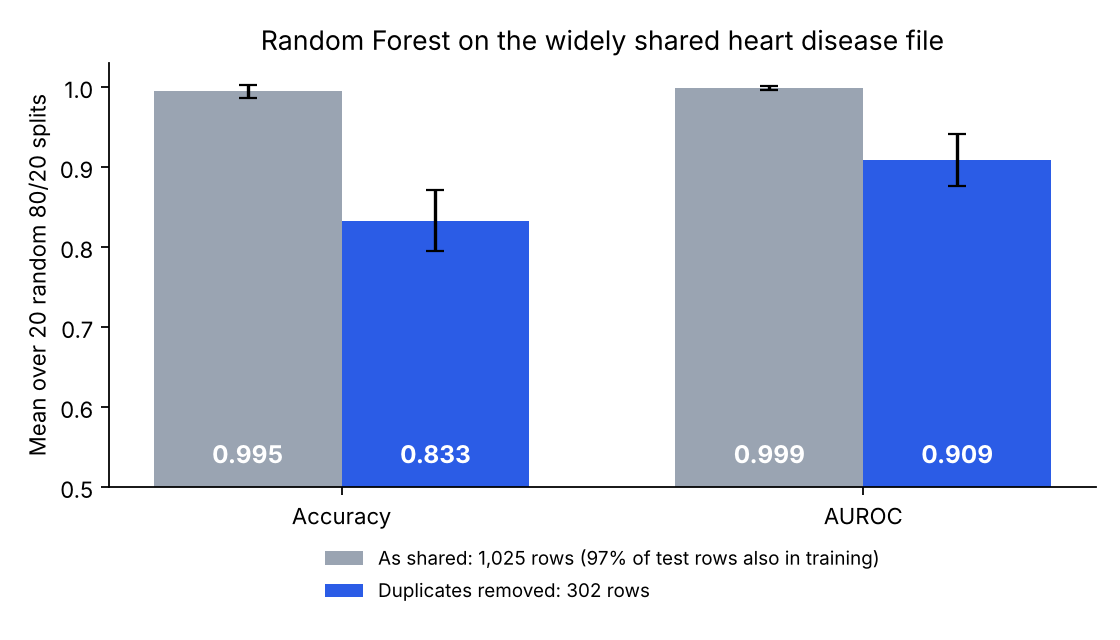
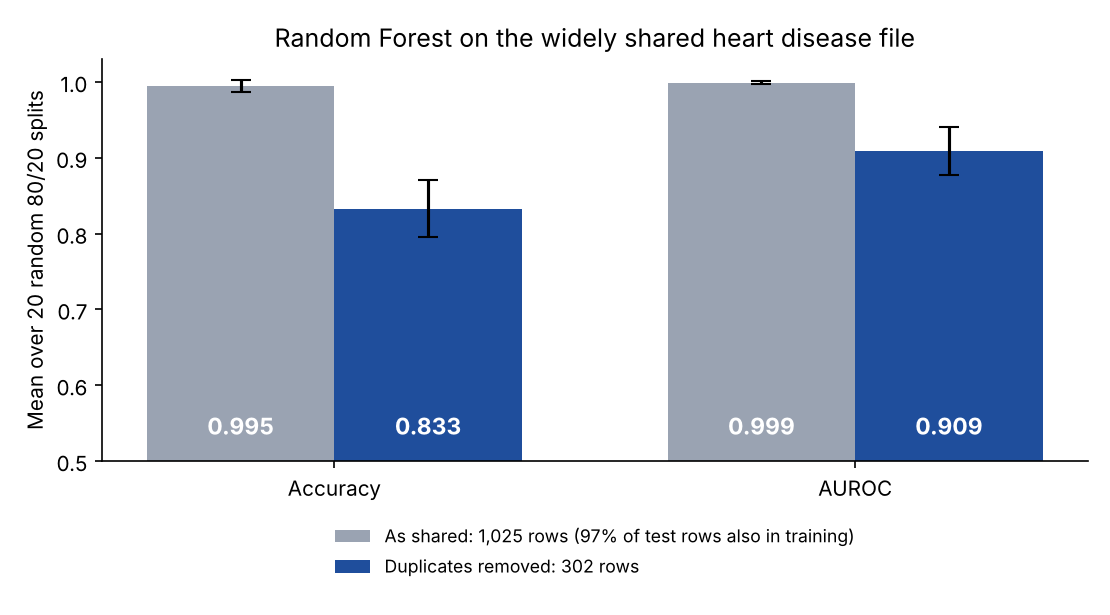
Use the house chart colours

diff --git a/scripts/redraw_figures.py b/scripts/redraw_figures.py
@@ -1,0 +1,58 @@
+"""Redraw the figures that only need saved result tables (no data download, no training).
+
+    python scripts/redraw_figures.py
+"""
+import sys
+from pathlib import Path
+
+import matplotlib
+matplotlib.use("Agg")
+import matplotlib.pyplot as plt  # noqa: E402
+import numpy as np  # noqa: E402
+import pandas as pd  # noqa: E402
+
+ROOT = Path(__file__).resolve().parents[1]
+sys.path.insert(0, str(ROOT / "src"))
+from heartv2 import plots  # noqa: E402
+
+GREY, BLUE = "#9aa3b2", plots.PALETTE[0]
+
+
+def leakage(audit: pd.DataFrame, path: Path) -> None:
+    """Accuracy and AUROC on the shared file with and without its duplicate rows."""
+    shared, dedup = audit.iloc[0], audit.iloc[1]
+    fig, ax = plt.subplots(figsize=(7.4, 4.1))
+    x = np.arange(2)
+    w = 0.36
+    for off, row, colour, label in ((-w / 2, shared, GREY, "As shared: 1,025 rows (97% of test rows also in training)"),
+                                    (w / 2, dedup, BLUE, "Duplicates removed: 302 rows")):
+        means = [row["accuracy_mean"], row["auroc_mean"]]
+        sds = [row["accuracy_sd"], row["auroc_sd"]]
+        ax.bar(x + off, means, w, yerr=sds, capsize=5, color=colour, label=label)
+        for xi, m in zip(x + off, means):
+            ax.text(xi, 0.535, "%.3f" % m, ha="center", color="white", fontweight="bold", fontsize=11)
+    ax.set_xticks(x, ["Accuracy", "AUROC"])
+    ax.set_ylim(0.5, 1.03)
+    ax.set_ylabel("Mean over 20 random 80/20 splits")
+    ax.set_title("Random Forest on the widely shared heart disease file")
+    for side in ("top", "right"):
+        ax.spines[side].set_visible(False)
+    ax.legend(loc="upper center", bbox_to_anchor=(0.5, -0.12), frameon=False, fontsize=8.5)
+    fig.tight_layout()
+    fig.savefig(path, dpi=150)
+
+
+def main() -> None:
+    res = ROOT / "results"
+    folds = pd.read_csv(res / "internal_cv_folds.csv")
+    loso = pd.read_csv(res / "loso_all_metrics.csv")
+    loso = loso[loso["features"] == "all"]
+    for out in (res / "figures", ROOT / "paper" / "figures"):
+        plots.internal_vs_external(folds, loso, out / "internal_vs_external.png")
+        plt.close("all")
+    leakage(pd.read_csv(res / "leakage_audit.csv"), ROOT / "paper" / "figures" / "leakage.png")
+    print("Redrew internal_vs_external.png and leakage.png")
+
+
+if __name__ == "__main__":
+    main()

diff --git a/src/heartv2/plots.py b/src/heartv2/plots.py
@@ -6,6 +6,9 @@ import numpy as np
 import pandas as pd
 import matplotlib.pyplot as plt
 
+# House palette: blue, yellow, red, light green
+PALETTE = ["#1F4E9C", "#E3A800", "#C8102E", "#5FA65A"]
+
 
 def internal_vs_external(cv_folds: pd.DataFrame, loso: pd.DataFrame, path=None):
     """Mean internal CV AUROC next to each held-out hospital's AUROC with 95% CI."""
@@ -20,7 +23,7 @@ def internal_vs_external(cv_folds: pd.DataFrame, loso: pd.DataFrame, path=None):
         s = loso[loso["held_out"] == site].set_index("model").reindex(models)
         err = np.vstack([s["auroc"] - s["auroc_lo"], s["auroc_hi"] - s["auroc"]])
         ax.bar(x - 0.4 + width * (i + 1.5), s["auroc"], width, yerr=err, capsize=2,
-               label=f"External: {site}")
+               label=f"External: {site}", color=PALETTE[i % len(PALETTE)])
     ax.set_xticks(x, models, rotation=20, ha="right")
     ax.set_ylabel("AUROC")
     ax.set_ylim(0.4, 1.0)
@@ -37,7 +40,7 @@ def calibration_curves(df: pd.DataFrame, preds: dict, model: str, n_bins: int = 
     """Reliability diagram per held-out hospital for one model (quantile bins)."""
     fig, ax = plt.subplots(figsize=(5, 5))
     ax.plot([0, 1], [0, 1], color="0.6", ls="--", lw=1)
-    for site in df["site"].unique():
+    for i, site in enumerate(df["site"].unique()):
         if (site, model) not in preds:
             continue
         y = df.loc[df["site"] == site, "target"].to_numpy()
@@ -46,7 +49,7 @@ def calibration_curves(df: pd.DataFrame, preds: dict, model: str, n_bins: int = 
         b = np.clip(np.digitize(p, q[1:-1]), 0, len(q) - 2)
         xs = [p[b == k].mean() for k in range(len(q) - 1) if (b == k).any()]
         ys = [y[b == k].mean() for k in range(len(q) - 1) if (b == k).any()]
-        ax.plot(xs, ys, marker="o", label=site)
+        ax.plot(xs, ys, marker="o", label=site, color=PALETTE[i % len(PALETTE)])
     ax.set_xlabel("Predicted probability")
     ax.set_ylabel("Observed frequency")
     ax.set_title(f"Calibration on held-out hospitals: {model}")
